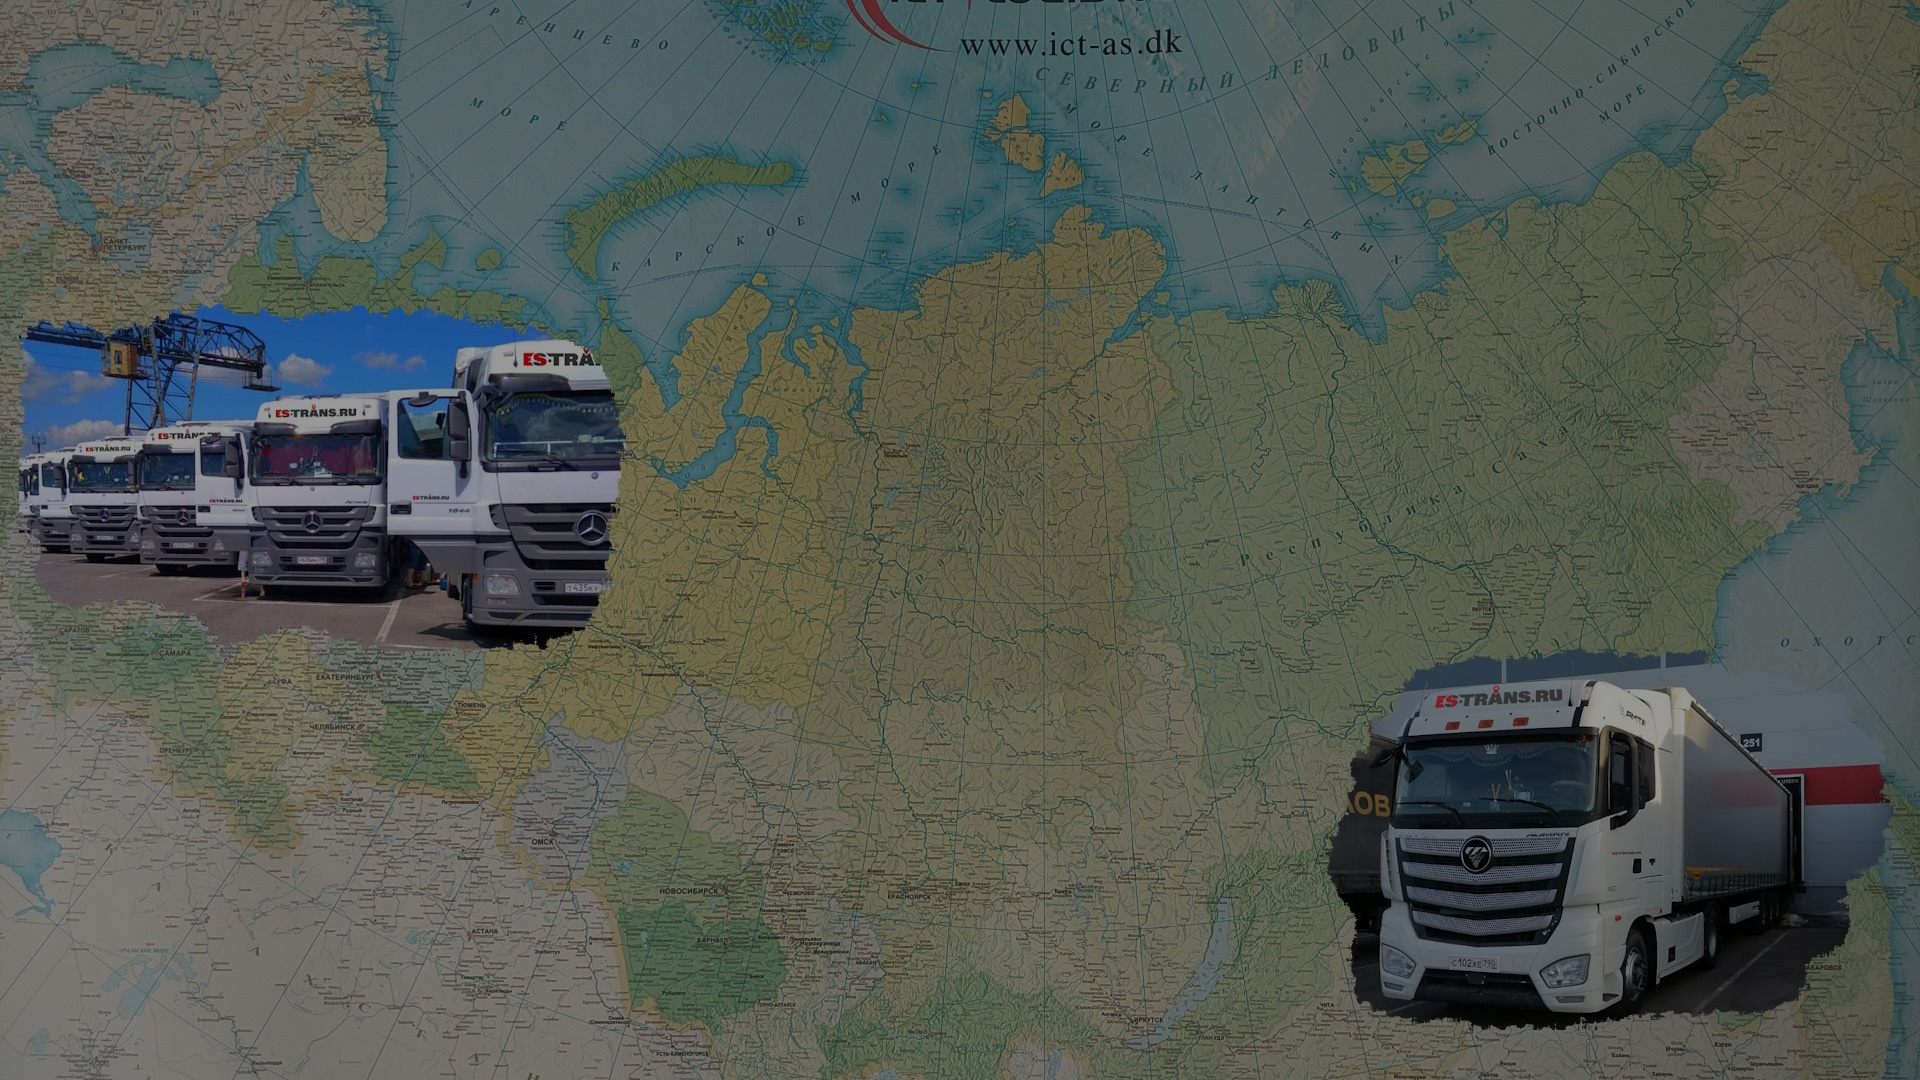
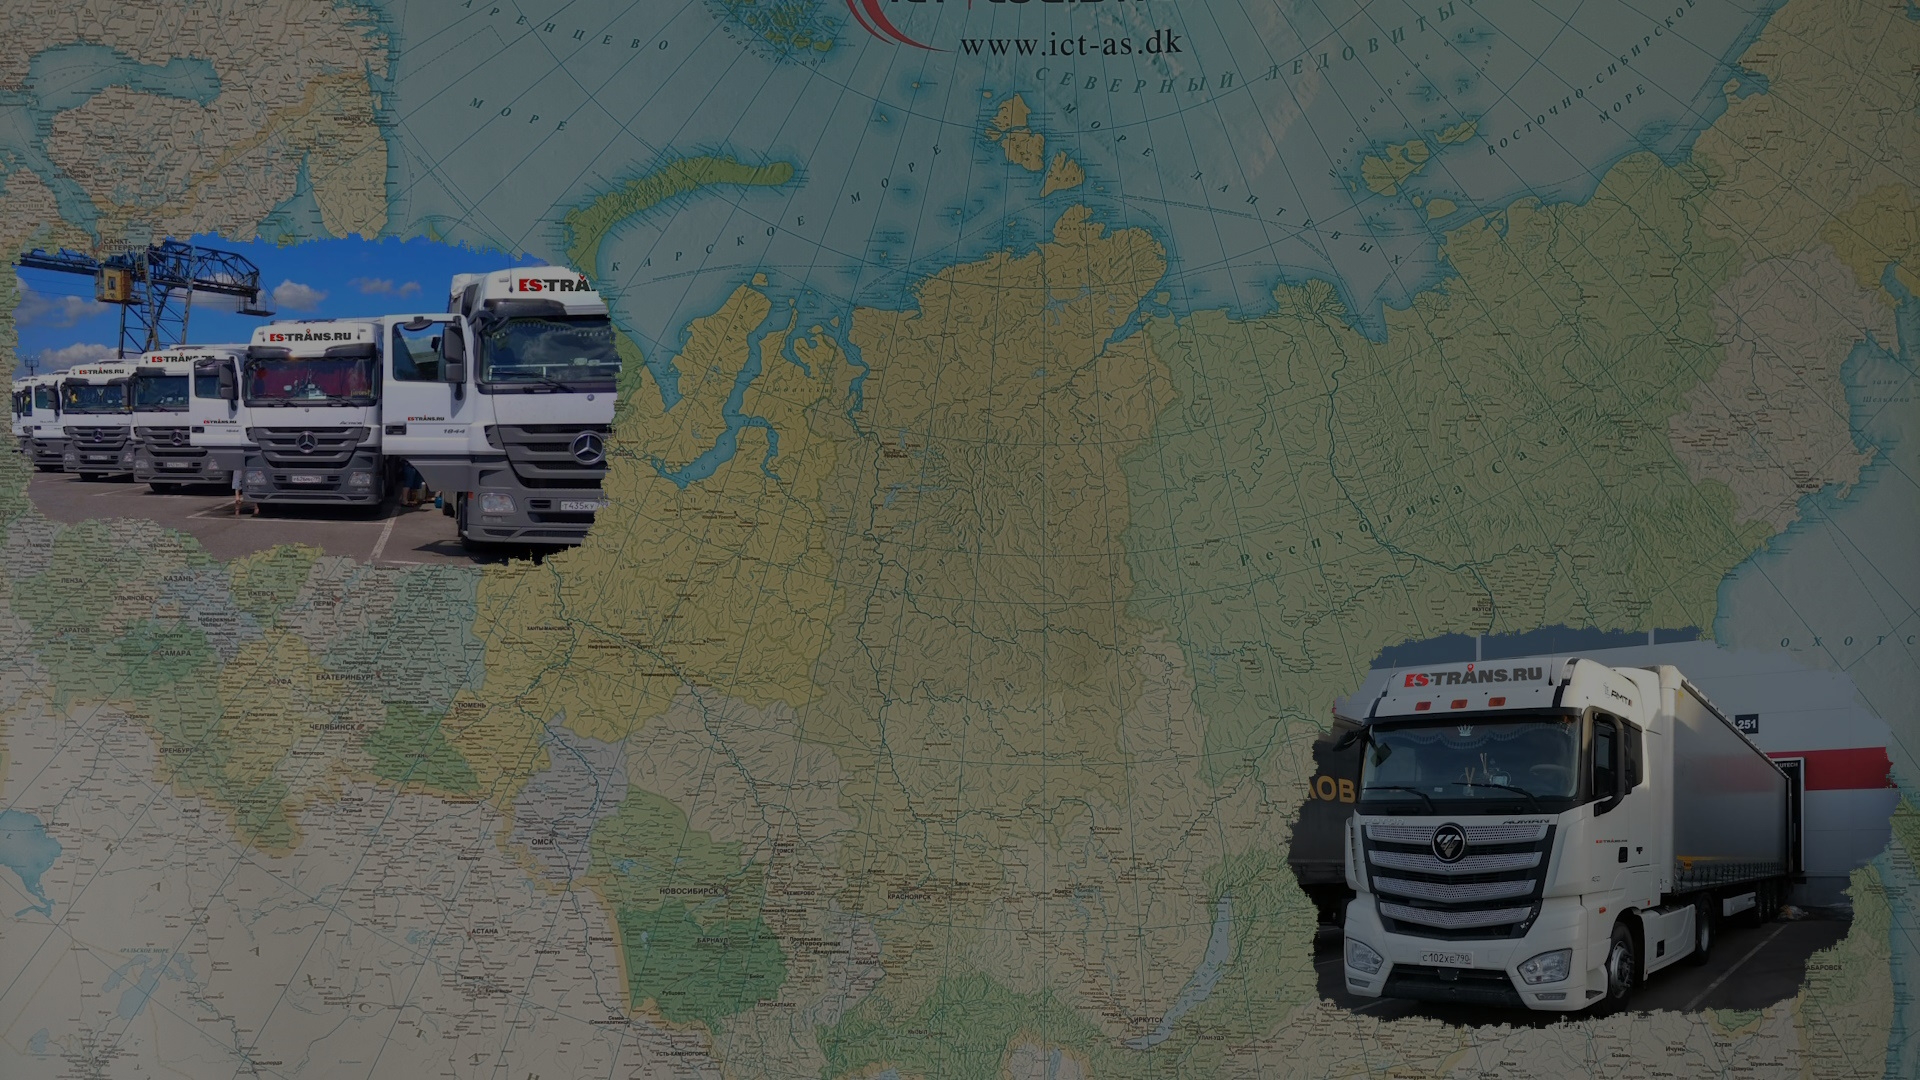
corrected bg-home

Changed region(s): [[0.0, 0.2139, 0.3438, 0.6111], [0.6562, 0.5806, 1.0, 0.9778]]

diff --git a/src/index.html b/src/index.html
@@ -388,8 +388,8 @@
 							<h3 class="requirements__subtitle subtitle">Что нужно будет делать</h3>
 						</div>
 						<div class="clearfix margin-bottom-30">
-							<div class="requirements__img-box img-box-400 float-right">
-								<img class="offer__img" data-src="@img/requirements-img-1.jpg" width="400" height="312"
+							<div class="requirements__img-box-1 img-box-400 float-right">
+								<img class="offer__img" data-src="@img/requirements-img-2.jpg" width="400" height="284"
 									alt="картинка со стажёром">
 							</div>
 							<ul class="requirements__list list-requirements">
@@ -400,6 +400,7 @@
 								<li class="list-requirements__item">Посещать отраслевые выставки.</li>
 								<li class="list-requirements__item">Проводить встречи с клиентами (офлайн и онлайн).</li>
 								<li class="list-requirements__item">Заключать сделки.</li>
+								<li class="list-requirements__item">Обучаться и повышать квалификацию.</li>
 							</ul>
 						</div>
 						<div class="requirementsr__subtitle-box subtitle-box">
@@ -408,31 +409,29 @@
 							</svg>
 							<h3 class="requirements__subtitle subtitle">Желаемые качества кандидата</h3>
 						</div>
-						<ul class="requirements__list list-requirements margin-bottom-30">
-							<li class="list-requirements__item">Активность, ответственность, умение достигать поставленной цели.</li>
-							<li class="list-requirements__item">Опыт в продажах логистических услуг.</li>
-							<li class="list-requirements__item">Грамотная устная и письменная речь.</li>
-							<li class="list-requirements__item">Высшее образование.</li>
-							<li class="list-requirements__item">Умение и желание общаться с клиентами.</li>
-							<li class="list-requirements__item">Навык ведения переговоров.</li>
-							<li class="list-requirements__item">Любовь к продажам и желание в них развиваться.</li>
-							<li class="list-requirements__item">Желание зарабатывать хорошие деньги и влиять на ход продаж.</li>
-							<li class="list-requirements__item">Обучаемость.</li>
-							<li class="list-requirements__item">Знание английского.</li>
-						</ul>
-
-
-
-
-
-
-
-
-
-
+						<div class="clearfix margin-bottom-30">
+							<div class="requirements__img-box-2 img-box-400 float-right">
+								<img class="offer__img" data-src="@img/requirements-img-3.jpg" width="400" height="295"
+									alt="картинка со стажёром">
+							</div>
+							<ul class="requirements__list list-requirements">
+								<li class="list-requirements__item">Активность, ответственность, умение достигать поставленной
+									цели.</li>
+								<li class="list-requirements__item">Опыт в продажах логистических услуг.</li>
+								<li class="list-requirements__item">Грамотная устная и письменная речь.</li>
+								<li class="list-requirements__item">Высшее образование.</li>
+								<li class="list-requirements__item">Умение и желание общаться с клиентами.</li>
+								<li class="list-requirements__item">Навык ведения переговоров.</li>
+								<li class="list-requirements__item">Любовь к продажам и желание в них развиваться.</li>
+								<li class="list-requirements__item">Желание зарабатывать хорошие деньги и влиять на ход продаж.
+								</li>
+								<li class="list-requirements__item">Обучаемость.</li>
+								<li class="list-requirements__item">Знание английского.</li>
+							</ul>
+						</div>
 						<p class="requirements__text">Оставьте свою заявку на нашем сайте,
 							нажав на красную кнопку "Хочу в команду", или свяжитесь с нами по указанным контактным данным в
-							разделе <a class="offer__link link" data-goto-header data-goto=".contact" href="#">Контакты</a>.
+							разделе <a class="requirements__link link" data-goto-header data-goto=".contact" href="#">Контакты</a>.
 						</p>
 					</div>
 			</section>
@@ -547,7 +546,7 @@
 										data-src="@img/logo-60/7.png" alt="логотип"></div>
 							</li>
 							<li class="list__item">
-								<div class="list__item-wrapper"><img class="list__img" width="87" height="60"
+								<div class="list__item-wrapper"><img class="list__img" width="203" height="60"
 										data-src="@img/logo-60/8.png" alt="логотип"></div>
 							</li>
 						</ul>
@@ -689,11 +688,11 @@
 							<li class="garage-list__item"><img class="about__img" data-src="@img/about/about-park-2-300.jpg"
 									alt="грузовая машина ЕС Транс" width="300" height="400">
 							</li>
-							<li class="garage-list__item"><img class="about__img" src="@img/about/about-park-3-300.jpg"
+							<li class="garage-list__item"><img class="about__img" data-src="@img/about/about-park-3-300.jpg"
 									alt="грузовая машина ЕС Транс" width="300" height="400">
 							</li>
 							<li class="garage-list__item img-width-584"><img class="about__img"
-									src="@img/about/about-park-4-584.jpg" alt="грузовая машина ЕС Транс" width="584"
+									data-src="@img/about/about-park-4-584.jpg" alt="грузовая машина ЕС Транс" width="584"
 									height="400">
 							</li>
 						</ul>
@@ -743,14 +742,14 @@
 							</ul>
 							<p class=" contact__text margin-bottom-20">Для письменного общения пишите нам в мессенджеры:</p>
 							<div class="contact__social">
-								<a class="contact__link-icon" target="_blank" href="viber://chat?number=375299580130">
-									<svg class="icon">
-										<use xlink:href="@img/icons/icons.svg#viber"></use>
-									</svg>
-								</a>
-								<a class="contact__link-icon" href="whatsapp://send?phone=79107094348" target="_blank">
+								<a class="contact__link-icon" href="whatsapp://send?phone=79935644581" target="_blank">
 									<svg class="icon">
 										<use xlink:href="@img/icons/icons.svg#whatsapp"></use>
+									</svg>
+								</a>
+								<a class="contact__link-icon" href="https://t.me/ESTrans1" target="_blank">
+									<svg class="icon">
+										<use xlink:href="@img/icons/icons.svg#telegram"></use>
 									</svg>
 								</a>
 							</div>

diff --git a/src/scss/home.scss b/src/scss/home.scss
@@ -2,9 +2,7 @@
 .home {
    height: 100vh;
    padding: 90px 0 20px;
-   background-image: url('./../img/bg-home-3-40-1.jpg');
-   background-size: cover;
-   background-position: bottom right;
+   background: url('./../img/bg-home-over-1000.png') bottom left 8%/850px no-repeat, url('./../img/bg-home-3-40.jpg') bottom center/cover no-repeat;
    color: $mainBgColor;
 
    text-transform: uppercase;
@@ -14,15 +12,18 @@
    align-items: center;
 
    @media (max-width:$tablet) {
-      padding: 120px 0 70px;
-      background-image: url('./../img/bg-home-tablet-40.jpg');
-      background-position: bottom left;
+      padding: 160px 0 70px;
+      background: url('./../img/bg-home-over-1000.png') bottom left 8%/700px no-repeat, url('./../img/bg-home-992-40.jpg') bottom center/cover no-repeat;
    }
 
-   @media (max-width:$mobileSmall) {
-      padding: 90px 0 80px;
-      background-image: url('./../img/bg-home-small-40.jpg');
-      background-position: bottom left;
+   @media (max-width:$mobile) {
+      padding: 160px 0 70px;
+      background: url('./../img/bg-home-over-1000.png') bottom left/98% no-repeat, url('./../img/bg-home-992-40.jpg') bottom center/cover no-repeat;
+   }
+
+	@media (max-width:$mobileSmall) {
+      padding: 170px 0 70px;      
+		background: url('./../img/bg-home-over-1000.png') bottom left/98% no-repeat, url('./../img/bg-home-480-40.jpg') bottom center/cover no-repeat;
    }
 
    @media (max-width: 1024px) and (min-aspect-ratio: 1024/600) {
@@ -79,11 +80,11 @@
       text-shadow: 0 0 5px $mainColor;
 
       @media (max-width: 1500px) {
-         font-size: toRem(70);
+         font-size: toRem(60);
       }
 
       @media (max-width:$pc) {
-         font-size: calc(toRem(40) + 30*((100vw - 320px) / (1200 - 320)));
+         font-size: calc(toRem(30) + 30*((100vw - 320px) / (1200 - 320)));
       }
    }
 
@@ -104,11 +105,12 @@
       text-shadow: 0 0 5px $mainColor;
 
       @media (max-width: 1500px) {
+         font-size: toRem(35);
          margin-bottom: toEm(30, 40);
       }
 
       @media (max-width:$pc) {
-         font-size: calc(toRem(23) + 17*((100vw - 320px) / (1200 - 320)));
+         font-size: calc(toRem(23) + 12*((100vw - 320px) / (1200 - 320)));
       }
 
       @media (max-width:$tablet) {

diff --git a/src/html/_header.htm b/src/html/_header.htm
@@ -20,16 +20,16 @@
 			<div class="menu__icon-wrapper">
 				<ul class="menu__social social">
 					<li class="social__item">
-						<a class="social__link" target="_blank" href="whatsapp://send?phone=79935644581">
+						<a class="social__link" href="whatsapp://send?phone=79935644581" target="_blank">
 							<svg class="social__icon">
 								<use xlink:href="@img/icons/icons.svg#whatsapp"></use>
 							</svg>
 						</a>
 					</li>
 					<li class="social__item">
-						<a class="social__link" target="_blank" href="viber://chat?number=375299580130">
+						<a class="social__link" href="https://t.me/ESTrans1" target="_blank">
 							<svg class="social__icon">
-								<use xlink:href="@img/icons/icons.svg#viber"></use>
+								<use xlink:href="@img/icons/icons.svg#telegram"></use>
 							</svg>
 						</a>
 					</li>

diff --git a/src/html/_header-back.htm b/src/html/_header-back.htm
@@ -6,16 +6,16 @@
 		<div class="menu__icon-wrapper">
 			<ul class="menu__social social">
 				<li class="social__item">
-					<a class="social__link" target="_blank" href="whatsapp://send?phone=79935644581">
+					<a class="social__link" href="whatsapp://send?phone=79935644581" target="_blank">
 						<svg class="social__icon">
 							<use xlink:href="@img/icons/icons.svg#whatsapp"></use>
 						</svg>
 					</a>
 				</li>
 				<li class="social__item">
-					<a class="social__link" target="_blank" href="viber://chat?number=375299580130">
+					<a class="social__link" href="https://t.me/ESTrans1" target="_blank">
 						<svg class="social__icon">
-							<use xlink:href="@img/icons/icons.svg#viber"></use>
+							<use xlink:href="@img/icons/icons.svg#telegram"></use>
 						</svg>
 					</a>
 				</li>

diff --git a/src/html/_footer.htm b/src/html/_footer.htm
@@ -4,13 +4,9 @@
 			<ul class="footer__list margin-bottom-20">
 				<li class="footer__item"><a class="footer__link link" href="/politika-obrabotki.html">Политика конфиденциальности</a></li>
 				<li class="footer__item"><a class="footer__link link" href="/soglashenie.html">Соглашение об обработке данных</a></li>
-				<li class="footer__item"><a class="footer__link link" id="contract.html" href="/contract.html">Трудовой договор</a></li>
 			</ul>
 			<span class="text-form">&#169; ООО "ЕС Транс", 2024</span>
 		</div>
 	</div>
 </footer>
 
-<div class="chatme" data-lp>
-	<div class="chatme__icon"><a class="chatme__link" href="https://t.me/+79107094348" target="_blank"></a></div>
-</div>

diff --git a/src/scss/requirements.scss b/src/scss/requirements.scss
@@ -1,6 +1,6 @@
 // requirements
 .requirements {
-	&__list {
+   &__list {
       padding-left: toRem(19);
    }
 
@@ -13,9 +13,22 @@
       color: $accentColor;
    }
 
-   &__img-box {
+   &__img-box,
+   &__img-box-1,
+   &__img-box-2 {
       max-width: 400px;
-      aspect-ratio: 400/312;
       overflow: hidden;
+   }
+
+   &__img-box {
+      aspect-ratio: 400/312;
+   }
+
+   &__img-box-1 {
+      aspect-ratio: 400/284;
+   }
+
+   &__img-box-2 {
+      aspect-ratio: 400/295;
    }
 }

diff --git a/src/scss/about.scss b/src/scss/about.scss
@@ -127,6 +127,7 @@
 		&__item.img-width-584 {
 			width: 584px;
          aspect-ratio: 584/400;
+			overflow: hidden;
 		}
 
 		@media (max-width:$mobileSmall) {
